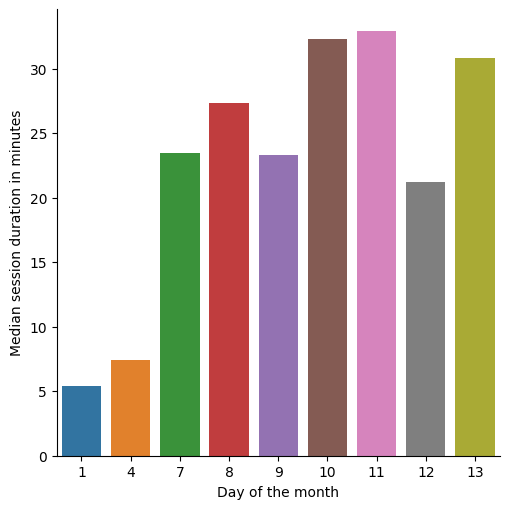
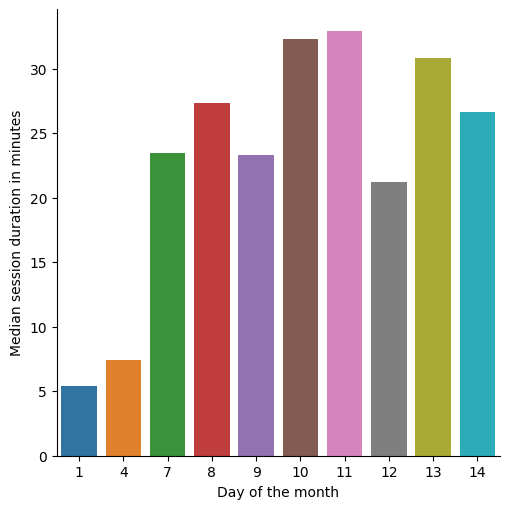
"Stats generated 2021-10-15"

diff --git a/all/2021/10/days/14/index.html b/all/2021/10/days/14/index.html
@@ -1,0 +1,29 @@
+<!DOCTYPE html>
+<html>
+  <head>
+    <meta charset="utf-8"/>
+    <title>14 October 2021</title>
+    <link rel="stylesheet" href="../../../../../styles.css"/>
+  </head>
+  <body>
+    <div id="container">
+      <nav>
+        <ul>
+          
+            <li><a href="../../">October 2021</a></li>
+            <li class="separator"></li>
+          
+          
+        </ul>
+      </nav>
+      <main>
+        <h1>14 October 2021</h1>
+        
+          <h2>Number of sessions per hour</h2>
+          <img src="sessions.png" alt="Number of sessions per hour"/>
+        
+        
+      </main>
+    </div>
+  </body>
+</html>

diff --git a/all/2021/index.html b/all/2021/index.html
@@ -143,9 +143,9 @@
                   
                     <td>10.0</td>
                   
-                    <td>80.0</td>
+                    <td>85.0</td>
                   
-                    <td>22.734736591666667</td>
+                    <td>23.284987</td>
                   
                 </tr>
               

diff --git a/all/2021/10/index.html b/all/2021/10/index.html
@@ -86,6 +86,10 @@
               <li><a href="days/13/">13</a></li>
             
           
+            
+              <li><a href="days/14/">14</a></li>
+            
+          
         </ul>
       </nav>
       <main>
